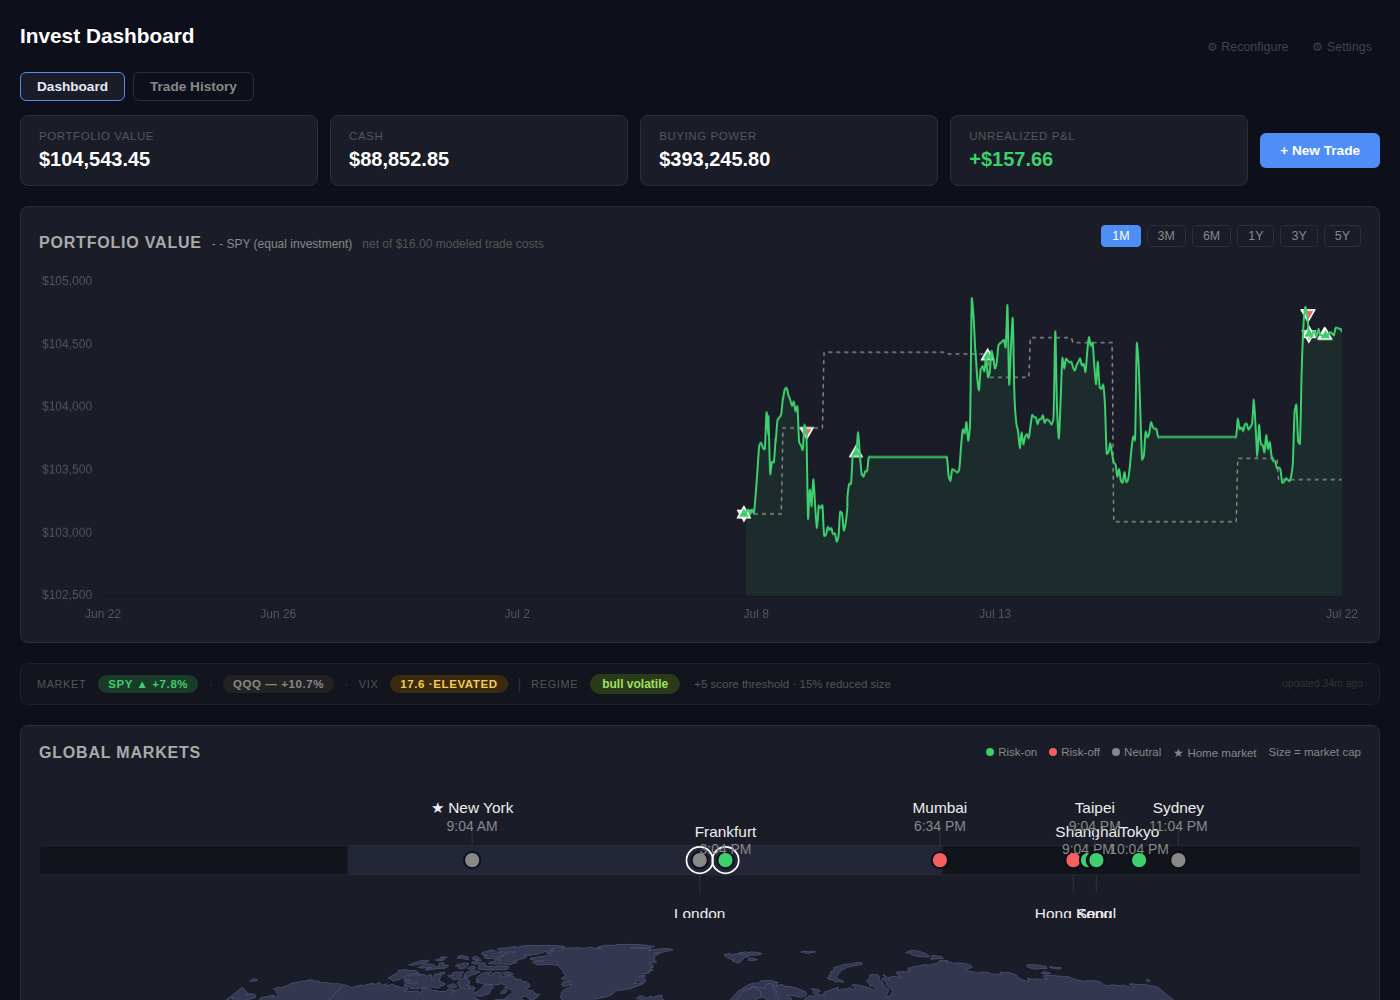
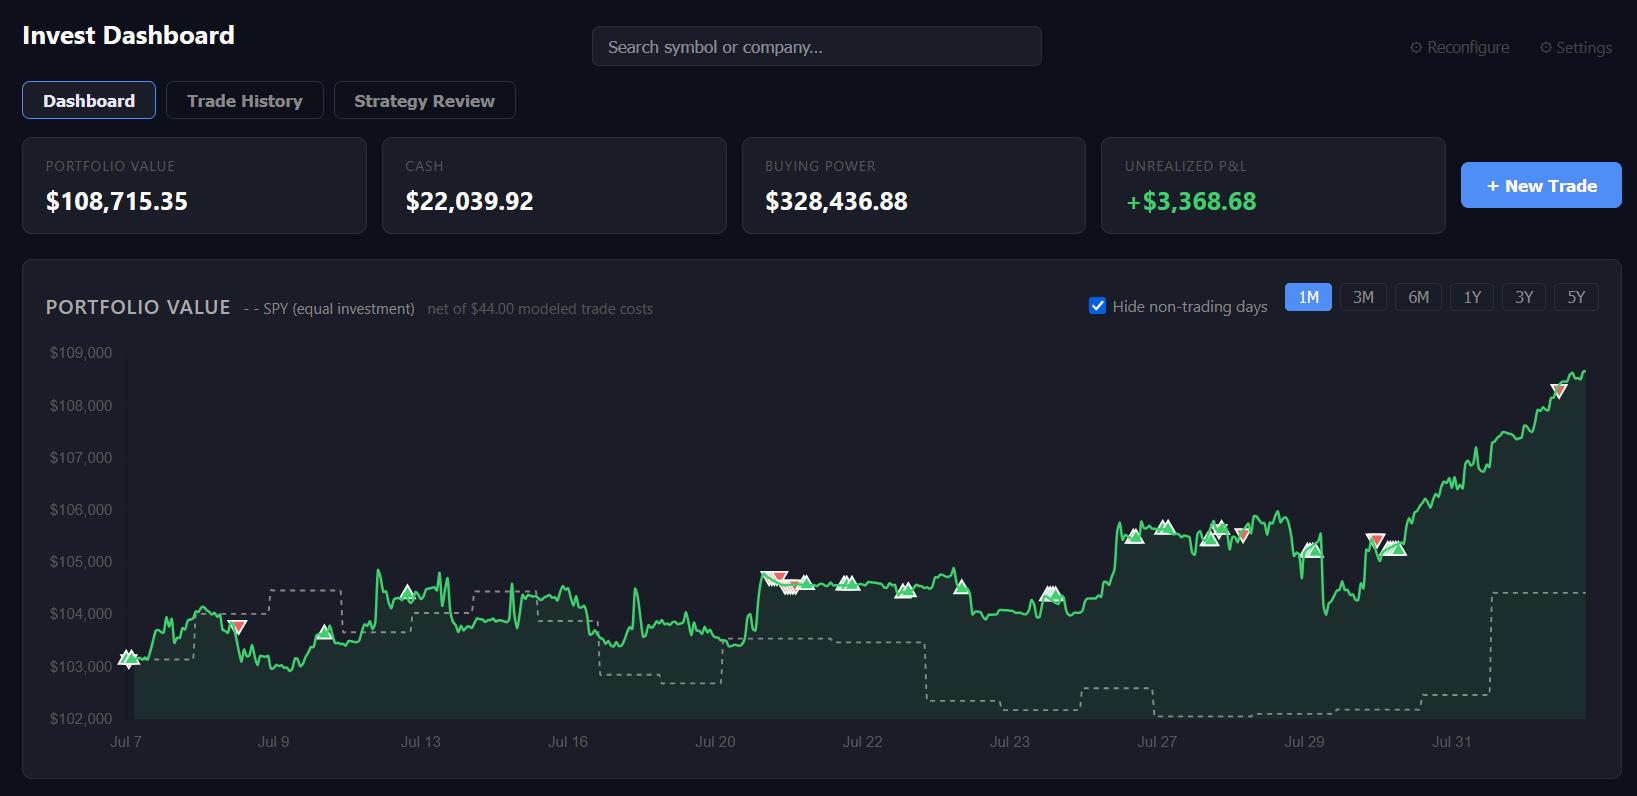
Refresh screenshots with current UI, add Strategy Review image
dashboard.png (renamed from the uploaded portfolio-graph.png),
symbol.png, and global-markets.png replaced with current screenshots --
now show the volume panel and default-checked candlesticks/BB from this
sessions UI PR, and the global markets widgets new regime-driven
recommendation banner. New strategy-review.png fills the one screenshot
gap flagged in the prior commit -- the expectancy/rule-adherence tables
now have a real image instead of describe-only text.

positions.png, recommendations.png, and signal-leaderboard.png also
uploaded but not yet wired into the README -- available if useful for
a future section.

diff --git a/README.md b/README.md
@@ -56,6 +56,8 @@ display purposes). What you see here is what the engine saw.
 
 ## Strategy Review
 
+![Strategy Review](docs/screenshots/strategy-review.png)
+
 This is probably the least "trading bot" part of the repo, and the most
 important. Once a week, the platform looks at its own trade history and
 asks two separate questions:
